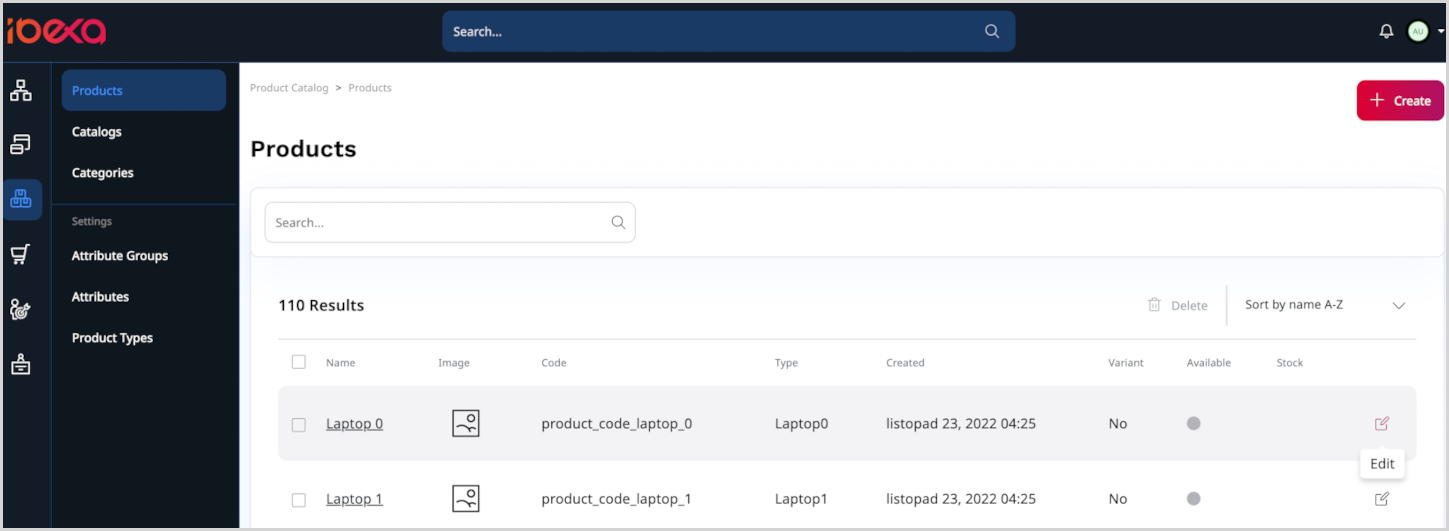
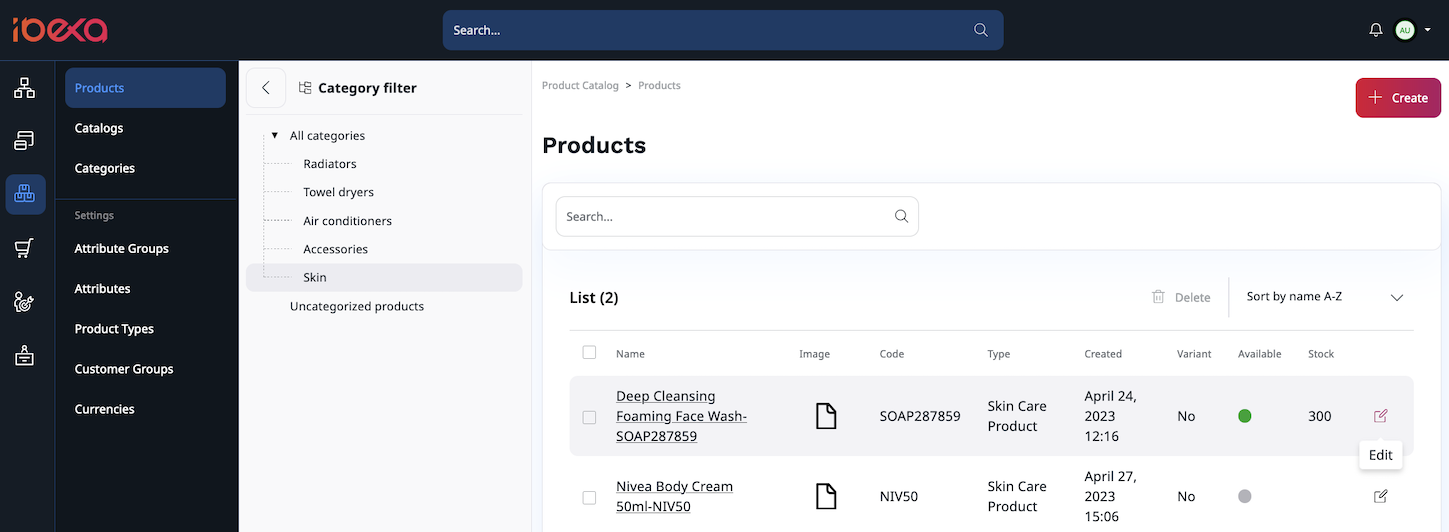
IBX-5500 - Mention of Product categories filter (#196)
* IBX-5500 - Mention of Product categories filter

diff --git a/docs/pim/create_edit_product.md b/docs/pim/create_edit_product.md
@@ -25,7 +25,7 @@ The new item appears in the tree.
 
 1\. If you are adding a new product, use one of the methods mentioned above and skip to step 3.
 
-2\. If you are editing an existing product, click the **Edit** button next to a name of the product item that you want to modify and skip to step 4.
+2\. If you are editing an existing product, in the **Category filter** tree, select a category to find your product more quickly. Then click the **Edit** button next to a name of the product item that you want to modify and skip to step 4.
 
 ![Products list with action buttons](img/edit_product.png "Products list with action buttons")
 
